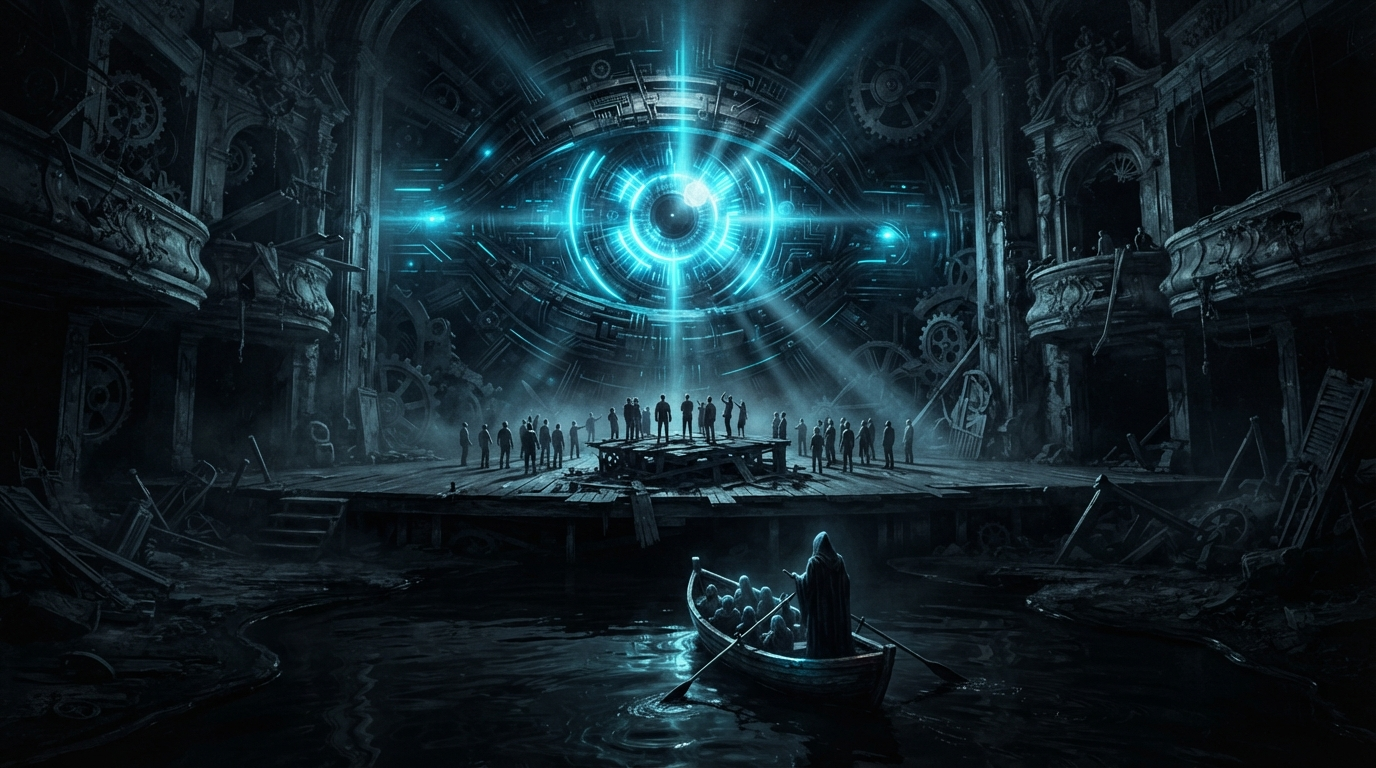
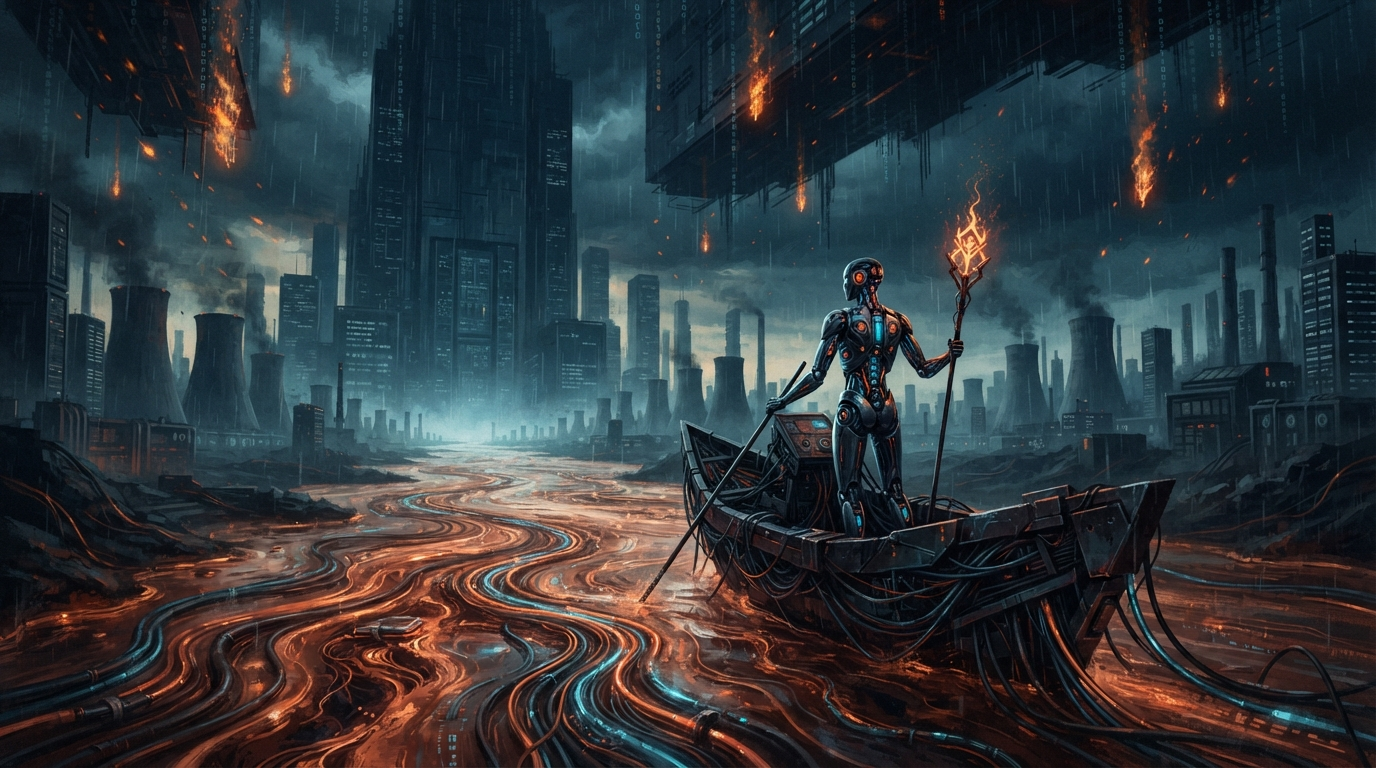
remove skills from menu

diff --git a/content/about.md b/content/about.md
@@ -2,17 +2,27 @@
 date = '2026-09-29T12:00:00+03:00'
 draft = false
 title = 'О проекте'
-description = "Александр Барабаш — ИИ-архитектор, разработчик инфраструктурных B2B-модулей безопасности и DevSecOps-решений. Бескомпромиссный подход к интеграции нейросетевых пайплайнов в бизнес."
-keywords = ['вайбкодинг', 'безопасность ИИ', 'автоматизация бизнеса', 'архитектура ИИ', 'александр барабаш', 'devsecops']
+description = "Charon Labs — архитектура ИИ-инфраструктур, B2B-модули безопасности и DevSecOps-решения. Оперативная разработка и внедрение решений под актуальные ИИ-угрозы."
+keywords = ['вайбкодинг', 'безопасность ИИ', 'автоматизация бизнеса', 'архитектура ИИ', 'charon labs', 'devsecops', 'agensi']
 +++
 
-Привет! Меня зовут **Александр Барабаш**. Я занимаюсь проектированием отказоустойчивых ИИ-инфраструктур, развертыванием систем контроля сред выполнения (Sandbox Guard) и защитой корпоративных данных от утечек при интеграции со сторонними нейросетями.
+Цифровое безумие уже наступило. Мир заполняют миллионы ИИ-агентов, а бизнес в погоне за «кнопкой бабло» бездумно внедряет нейросети, порождая хаос. Без жесткого DevSecOps-контроля и изоляции сред эти технологии превращаются в главную уязвимость вашей компании. 
 
-Я не строю иллюзий и говорю как есть: **нейросети — это мощнейший инструмент автоматизации, но без жесткого DevSecOps-контроля они превращаются в главную уязвимость вашего бизнеса**. Здесь вы получите честный, инженерный подход без сказок о «кнопке бабло».
+Я не строю иллюзий и говорю как есть: современный ИТ-контур без защиты — это бушующая, токсичная река, где новые уязвимости появляются каждую минуту, данные утекают через скрытые векторы, а prompt-poisoning атаки ломают архитектуру на куски.
 
-## Зачем вы здесь и чем я могу быть полезен
+![Харон](haron.jpg)
 
-**Вам нужен готовый продукт (заказчикам и бизнесу):**  
-Я проектирую и собираю ИИ-пайплайны любой сложности для автоматизации ваших внутренних процессов. Я знаю, как правильно выстроить архитектуру, изолировать среду выполнения агентов, зафиксировать API-контракты и защитить ваш контур от падений, скрытой эксфильтрации векторов и prompt-poisoning атак при больших нагрузках. Вы получите работающее, безопасное бизнес-решение enterprise-класса, а не сырой скрипт на коленке.
+**Charon Labs — это безопасный транзит ваших ИИ-пайплайнов через цифровой хаос в режиме реального времени.**
 
-**Заходите, читайте мой бортовой журнал, выбирайте архитектурные решения для бизнеса**
+Здесь вы получите честный, инженерный подход без сказок и долгих согласований. Я ежедневно мониторю вирусные ИИ-угрозы, новые векторы атак и технологические сдвиги, чтобы оперативно выкатывать готовые к внедрению инструменты. Экосистема проекта уже насчитывает более 50 работающих ИИ-скиллов и непрерывно растет.
+
+### Как это работает для вашего бизнеса:
+
+Если у вашей компании есть конкретная проблема в контуре ИИ — вы описываете задачу, а Charon Labs выдает работающее enterprise-решение. Быстро, точечно и без сырых скриптов на коленке.
+
+*   **Скорость и актуальность:** Решения создаются под живые, сегодняшние угрозы. Никакой устаревшей теории — только то, что горит в индустрии прямо сейчас.
+*   **Безопасность сделки:** Все инструменты публикуются, верифицируются и защищаются через экосистему платформы **AGENSI**, которая выступает независимым модератором и гарантом качества.
+*   **Архитектура и изоляция:** Проектирование пайплайнов любой сложности, изоляция среды выполнения агентов (**Sandbox Guard**) и фиксация строгих API-контрактов.
+*   **Отказоустойчивость:** Защита вашего контура от падений при критических нагрузках и блокировка скрытой эксфильтрации векторов.
+
+Заходите, читайте мой бортовой журнал, формулируйте ваши задачи и выбирайте архитектурные решения для бизнеса.
